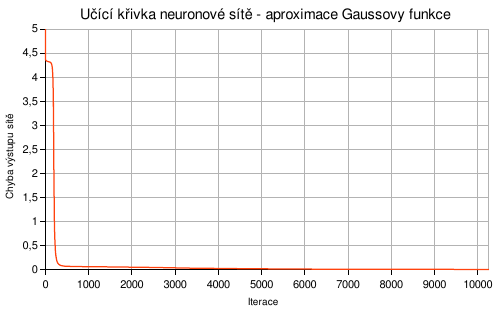
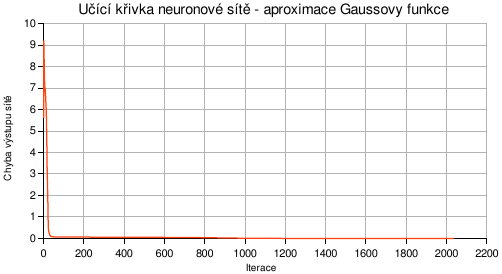
Examples in help changed according to missing slope bugfix

Changed region(s): [[0.0, 0.0, 0.994, 0.9927]]

diff --git a/Help/examples.html b/Help/examples.html
@@ -138,7 +138,7 @@
 			<img src="examples/ex_5.2.png"/>
 			<div class="caption">Tab. 1: Množina trénovacích dat pro příklad klasifikace dat</div>
 		</div>
-		<p>Dále byl zvolen koeficient učení &alpha; = 0.8 a učení bylo zastaveno při chybě výstupu sítě menší než 0.025. Pro inicializaci náhodných vah, biasů a strmostí přenosových funkcí neuronů byly ponechány výchozí hodnoty seedů. Učící křivka je zobrazena na obrázku 5.</p>
+		<p>Dále byl zvolen koeficient učení &alpha; = 0.35. Seed pro generování náhodných vah neuronů byl nastaven na hodnotu 2257. Strmosti přenosových funkcí neuronů byly vygenerovány v rozsahu od 1.15 od 1.50. Ostatní seedy a rozsahy byly ponechány na výchozích hodnotách. Učení bylo zastaveno při poklesu chyby výstupu sítě pod 0.025. Učící křivka je zobrazena na obrázku 5.</p>
 		<p>Po dokončení učení byl pro neuronovou síť vykreslen klasifikační diagram, který je zobrazený na obrázku 6. Lepšího výsledku by bylo možné dosáhnout například naučením neuronové sítě na hrubší trénovací množinu a jejím následným doučením na jemnější trénovací množinu.</p>
 		<div class="image">
 			<img src="examples/ex_5.3.png"/>
@@ -162,8 +162,8 @@
 		
 		<div class="subhead">Řešení</div>
 		<p>Problém je řešitelný vícevrstvou neuronovou sítí s jedním vstupem, jedním výstupem a jednou vnitřní vrstvou se šesti neurony. Dle zadání byla jako přenosová funkce všech neuronů v síti nastavena binární sigmoidní funkce. </p>
-		<p>K aproximaci Gaussovy křivky bylo zvoleno 13 bodů (viz tabulka 2). Dvanáctý a třináctý trénovací vzor byl přidán kvůli zmenšení chyby hodnoty funkce v bodě 0 na ose x. Velká chyba v tomto bodě vzniká, protože většina bodů ve trénovací množině dat leží podstatně níže než bod na vrcholu Gaussovy křivky. Z toho plyne, že chybu v tomto bodě lze minimalizovat správným návrhem trénovací množiny dat, zejména přidáním většího počtu bodů v oblasti kolem bodu 0. [1]</p>
-		<p>Koeficient učení &alpha; byl nastaven na hodnotu 0.4. Pro inicializaci neuronové sítě náhodnými hodnotami vah, biasů a&nbsp;strmostí přenosových funkcí neuronů byly ponechány výchozí hodnoty seedů. Učení bylo zastaveno při poklesu chyby výstupu sítě pod 0.005. Učící křivka neuronové sítě je zobrazena na obrázku 7.</p>
+		<p>K aproximaci Gaussovy křivky bylo zvoleno 13 bodů (viz tabulka 2). Dvanáctý a třináctý trénovací vzor byl přidán kvůli zmenšení chyby hodnoty funkce v bodě 0 na ose x. Velká chyba v tomto bodě vzniká, protože většina bodů ve trénovací množině dat leží podstatně níže než bod na vrcholu Gaussovy křivky. Z toho plyne, že chybu v tomto bodě lze minimalizovat správným návrhem trénovací množiny dat, zejména přidáním více bodů v oblasti kolem bodu 0. [1]</p>
+		<p>Koeficient učení &alpha; byl nastaven na hodnotu 0.3965. Pro inicializaci neuronové sítě náhodnými hodnotami vah, biasů a strmostí přenosových funkcí neuronů byly ponechány výchozí hodnoty seedů a rozsahů, s výjimkou strmostí přenosových funkcí neuronů, které byly vygenerovány v rozsahu od 1 do 3. Učení bylo zastaveno při poklesu chyby výstupu sítě pod 0.001. Učící křivka neuronové sítě je zobrazena na obrázku 7.</p>
 		<div class="image">
 			<img src="examples/ex_6.2.png"/>
 			<div class="caption">Tab. 2: Aproximované body Gaussovy křivky</div>
@@ -196,6 +196,7 @@
 			<img src="examples/ex_7.2.png"/>
 			<div class="caption">Tab. 3: Trénovací data pro předvídání sinusového průběhu</div>
 		</div>
+		<p>Jako přenosová funkce neuronů v neuronové síti byla nastavena binární sigmoida. Koeficient učení &alpha; byl nastaven na hodnotu 1. Ostatní volby byly ponechány na výchozích hodnotách.</p>
 		<p>Naučená neuronová síť byla otestována předvídáním jedné periody sinusové funkce. Body získané předchozím předvídáním byly zpětně předkládány neuronové síti, která s jejich využitím předvídala další body. Průběh sinusové funkce získaný předvídáním a průběh ideální, jsou zobrazeny v grafu na obrázku 9.</p>
 		<p>Na obrázku 10 je zobrazen rozdíl hodnot předvídaného a reálného průběhu, který se vzrůstajícím počtem předvídaných bodů podle předpokladu stoupá.</p>
 		<div class="image">
